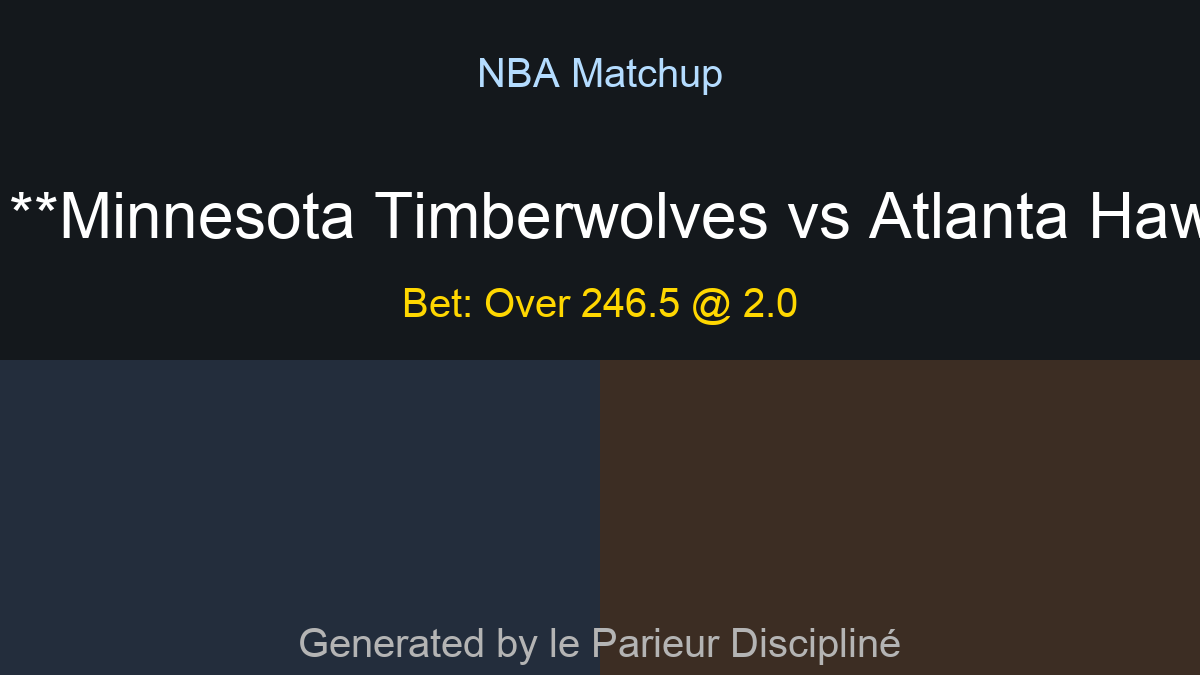
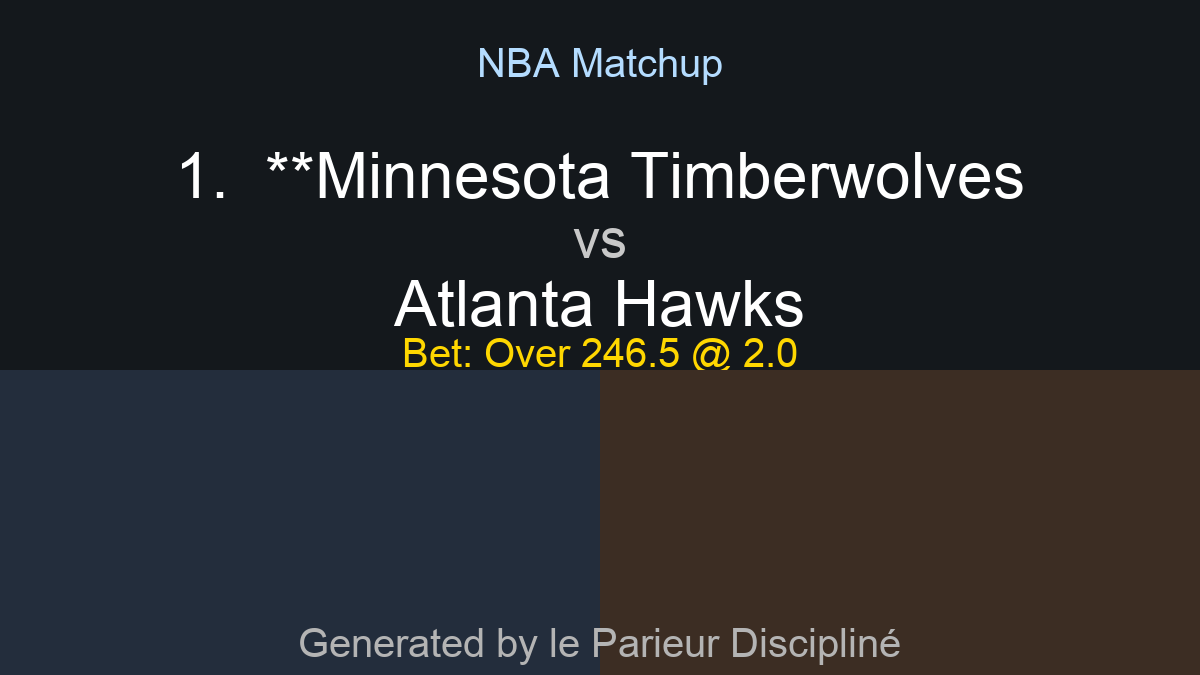
New generation

Changed region(s): [[0.0, 0.2178, 1.0, 0.56], [0.4008, 0.0622, 0.6167, 0.1556]]

diff --git a/generate_prediction_image.py b/generate_prediction_image.py
@@ -116,6 +116,7 @@ def generate_image_with_gemini(play: dict, api_key: str) -> bytes | None:
             "use team names and colors if logos aren't accessible.\n\n"
             f"Matchup: {play['home']} vs {play['away']}\n"
             f"Bet: {play['bet']} @ {play['odds']}\n"
+            "Layout request: Place the matchup on three centered lines — Home (line 1), 'vs' (line 2), Away (line 3).\n"
             "Include: Date and sport (NBA), and a subtle footer 'Generated by Best Bet Bot'."
         )
         # Use the image-capable model from your list
@@ -144,28 +145,42 @@ def generate_image_with_pillow(play: dict, out_path: str):
     # Try to load a system font; fallback to default
     try:
         font_title = ImageFont.truetype("Arial.ttf", 64)
+        font_vs = ImageFont.truetype("Arial.ttf", 54)
         font_sub = ImageFont.truetype("Arial.ttf", 40)
     except Exception:
         font_title = ImageFont.load_default()
+        font_vs = ImageFont.load_default()
         font_sub = ImageFont.load_default()
 
-    title = f"{play['home']} vs {play['away']}"
     bet_line = f"Bet: {play['bet']} @ {play['odds']}"
     footer = "Generated by le Parieur Discipliné"
 
-    # Centered text
+    # Centered text helper
     def center_text(text, y, font, fill=(240, 240, 240)):
         w, h = draw.textbbox((0, 0), text, font=font)[2:]
         x = (width - w) // 2
         draw.text((x, y), text, font=font, fill=fill)
+        return h
 
-    center_text("NBA Matchup", 50, font_sub, (180, 220, 255))
-    center_text(title, 180, font_title, (255, 255, 255))
-    center_text(bet_line, 280, font_sub, (255, 215, 0))
+    # Header
+    center_text("NBA Matchup", 40, font_sub, (180, 220, 255))
+
+    # Three-line title: Home \n vs \n Away
+    home_h = draw.textbbox((0, 0), play['home'], font=font_title)[3]
+    vs_h = draw.textbbox((0, 0), "vs", font=font_vs)[3]
+    away_h = draw.textbbox((0, 0), play['away'], font=font_title)[3]
+
+    base_y = 140  # top of the block
+    center_text(play['home'], base_y, font_title, (255, 255, 255))
+    center_text("vs", base_y + home_h + 10, font_vs, (200, 200, 200))
+    center_text(play['away'], base_y + home_h + 10 + vs_h + 10, font_title, (255, 255, 255))
+
+    # Bet line below the title block
+    center_text(bet_line, 330, font_sub, (255, 215, 0))
 
     # Simple halves background accent
-    draw.rectangle([0, 360, width//2, height], fill=(35, 45, 60))
-    draw.rectangle([width//2, 360, width, height], fill=(60, 45, 35))
+    draw.rectangle([0, 370, width//2, height], fill=(35, 45, 60))
+    draw.rectangle([width//2, 370, width, height], fill=(60, 45, 35))
 
     # Footer
     center_text(footer, 620, font_sub, (180, 180, 180))
